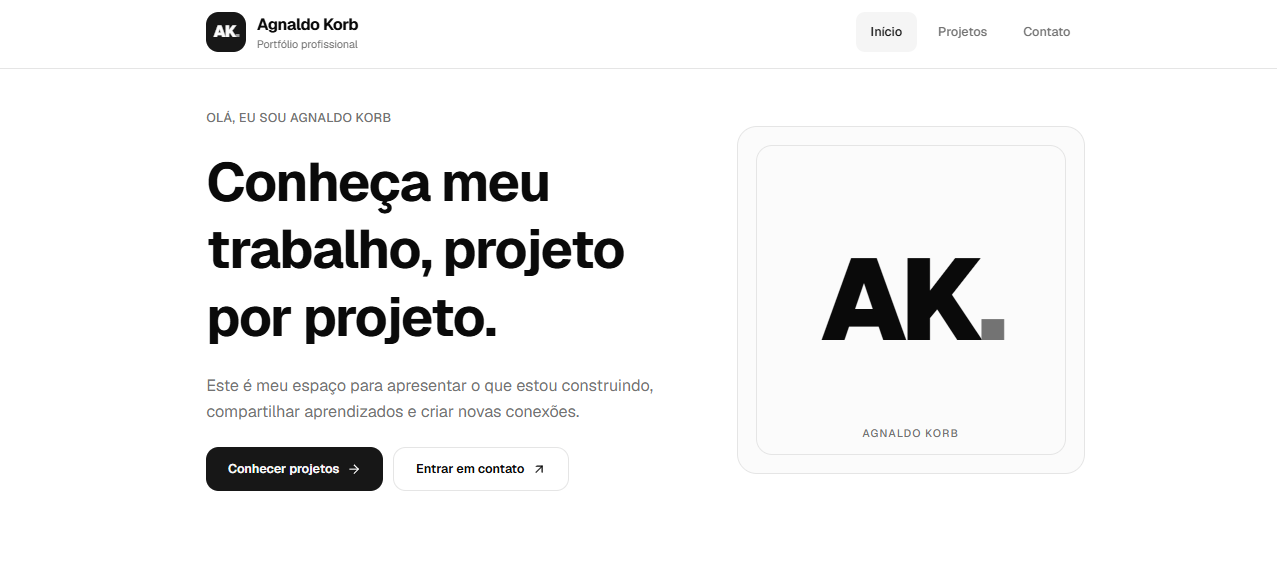
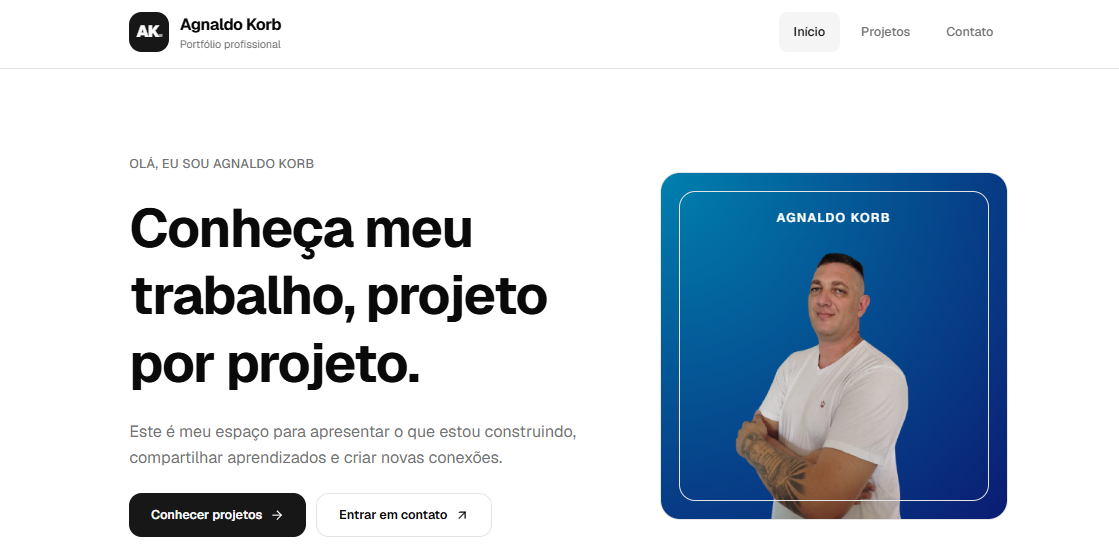
feat:coverage/ adicionado ao projeto

diff --git a/vitest.config.js b/vitest.config.js
@@ -7,6 +7,22 @@ export default mergeConfig(
     test: {
       environment: 'jsdom',
       setupFiles: './src/test/setup.js',
+
+      coverage: {
+        provider: 'v8',
+        reporter: ['text', 'html'],
+        reportsDirectory: './coverage',
+
+        include: ['src/**/*.{js,jsx}'],
+
+        exclude: [
+          'src/**/*.test.{js,jsx}',
+          'src/test/**',
+          'src/main.jsx',
+          'src/components/ui/**',
+          'src/data/**',
+        ],
+      },
     },
   }),
 )
